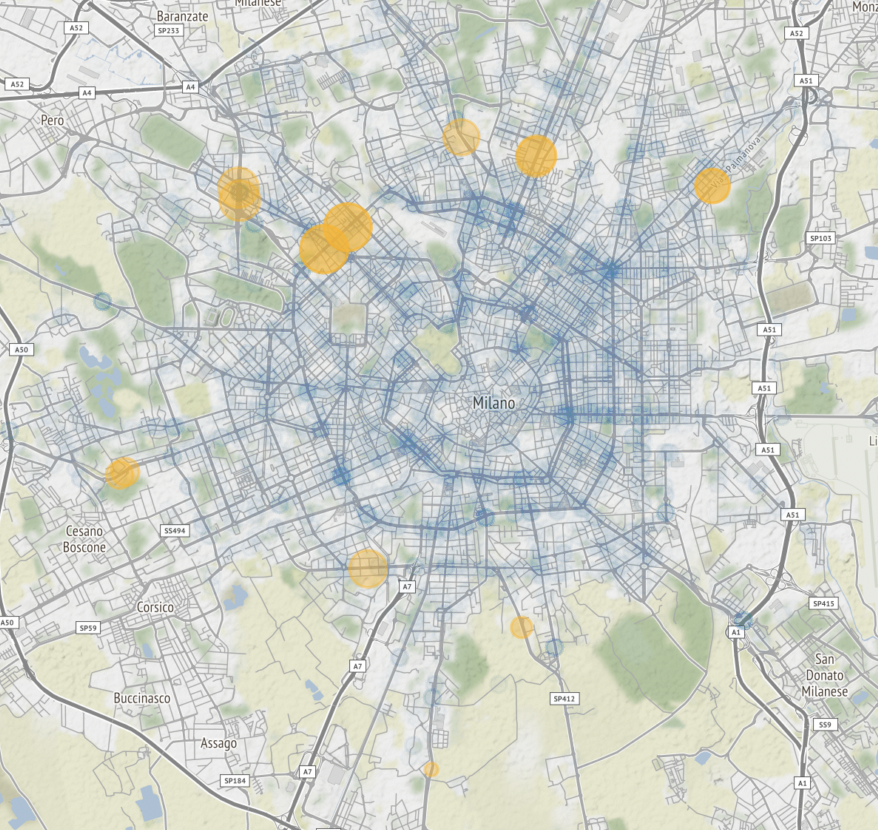
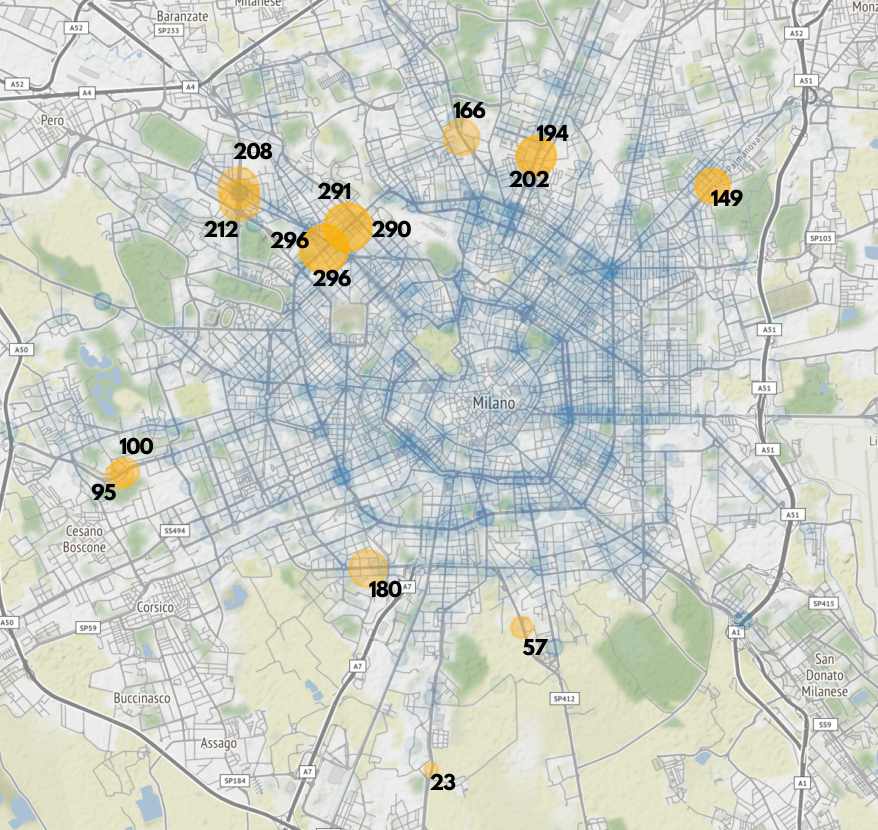
modificato grafo

diff --git a/tesi/Tesi.tex b/tesi/Tesi.tex
@@ -553,12 +553,32 @@ effetto sugli incidenti, visto che i dati sui sinistri risalgono al 2016.
     \label{fig:autovelox-incidenti}
 \end{figure}
 
-\todo{tabella dei valori di incidenti}
-
 La mappa \ref{fig:autovelox-incidenti} è stata realizzata contando gli incidenti avvenuti 
 vicino, più precisamente nel raggio di un chilometro, a ogni autovelox.
 Va precisato che le 'bolle' non indicano il raggio di conteggio degli incidenti, ma 
 l'entità del numero dei sinistri trovati.
+
+\todo{tabella dei valori di incidenti}
+
+\begin{center}
+    \def\arraystretch{1.5}% 
+    \begin{tabular}{ |c|c|c|c| }
+        \hline
+        Zona dell'Autovelox & Incidenti Totali & Incidenti per Km \\ 
+        \hline
+        \rowcolor{TableGray}
+        2018 & Uomo & 77\%  & 73\% \\
+        2018 & Donna & 23\% & 27\% \\
+        \rowcolor{TableGray}
+        2016 & Uomo & 75.8\%  & 71.9\% \\
+        2016 & Donna & 24.2\% & 28.1\% \\
+        \rowcolor{TableGray}
+        2014 & Uomo & 74.2\%  & 70.7\% \\
+        2014 & Donna & 25.8\% & 29.3\% \\
+        \hline
+    \end{tabular}
+\end{center}
+
 
 %\clearpage
 \section{Incidenti e Meteo}

diff --git a/src/autovelox/correlazione.py b/src/autovelox/correlazione.py
@@ -29,12 +29,18 @@ for i, point in zip(autovelox_2014.index, autovelox_2014['geometry']):
             df[i] += 1
             
 autovelox_2014['incidenti_vicini'] = gp.GeoSeries(df)
+autovelox_2014['incidenti_pesati'] = autovelox_2014['incidenti_vicini'] / 3.14
 
-# print(autovelox_2014)
+print(autovelox_2014)
 # print(df)
 
 x = incidenti.plot(alpha=0.01)
 ax = autovelox_2014.plot(ax = x, markersize=autovelox_2014['incidenti_vicini'], alpha=0.4, color='orange', legend=True)
+
+for v, p in zip(autovelox_2014['incidenti_vicini'], autovelox_2014['geometry']): 
+    p = geometry.Point(p)
+    plt.text(p.x, p.y, v)
+
 cx.add_basemap(ax = ax)
 plt.show()
 
